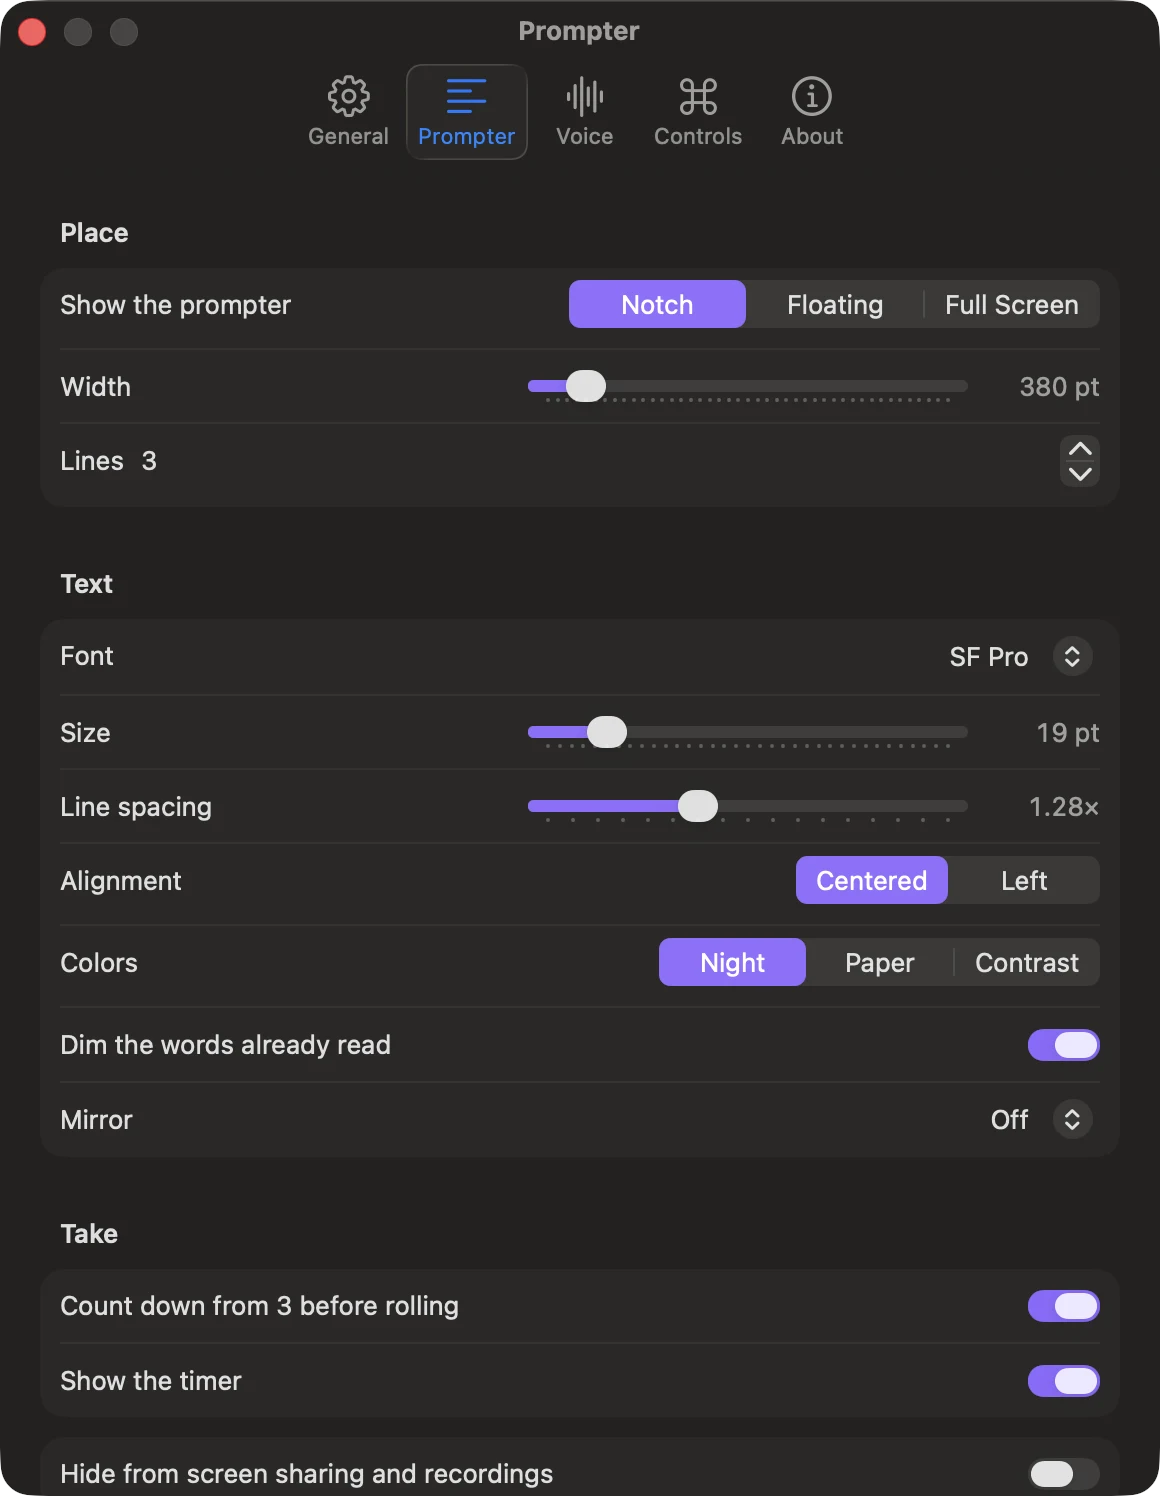
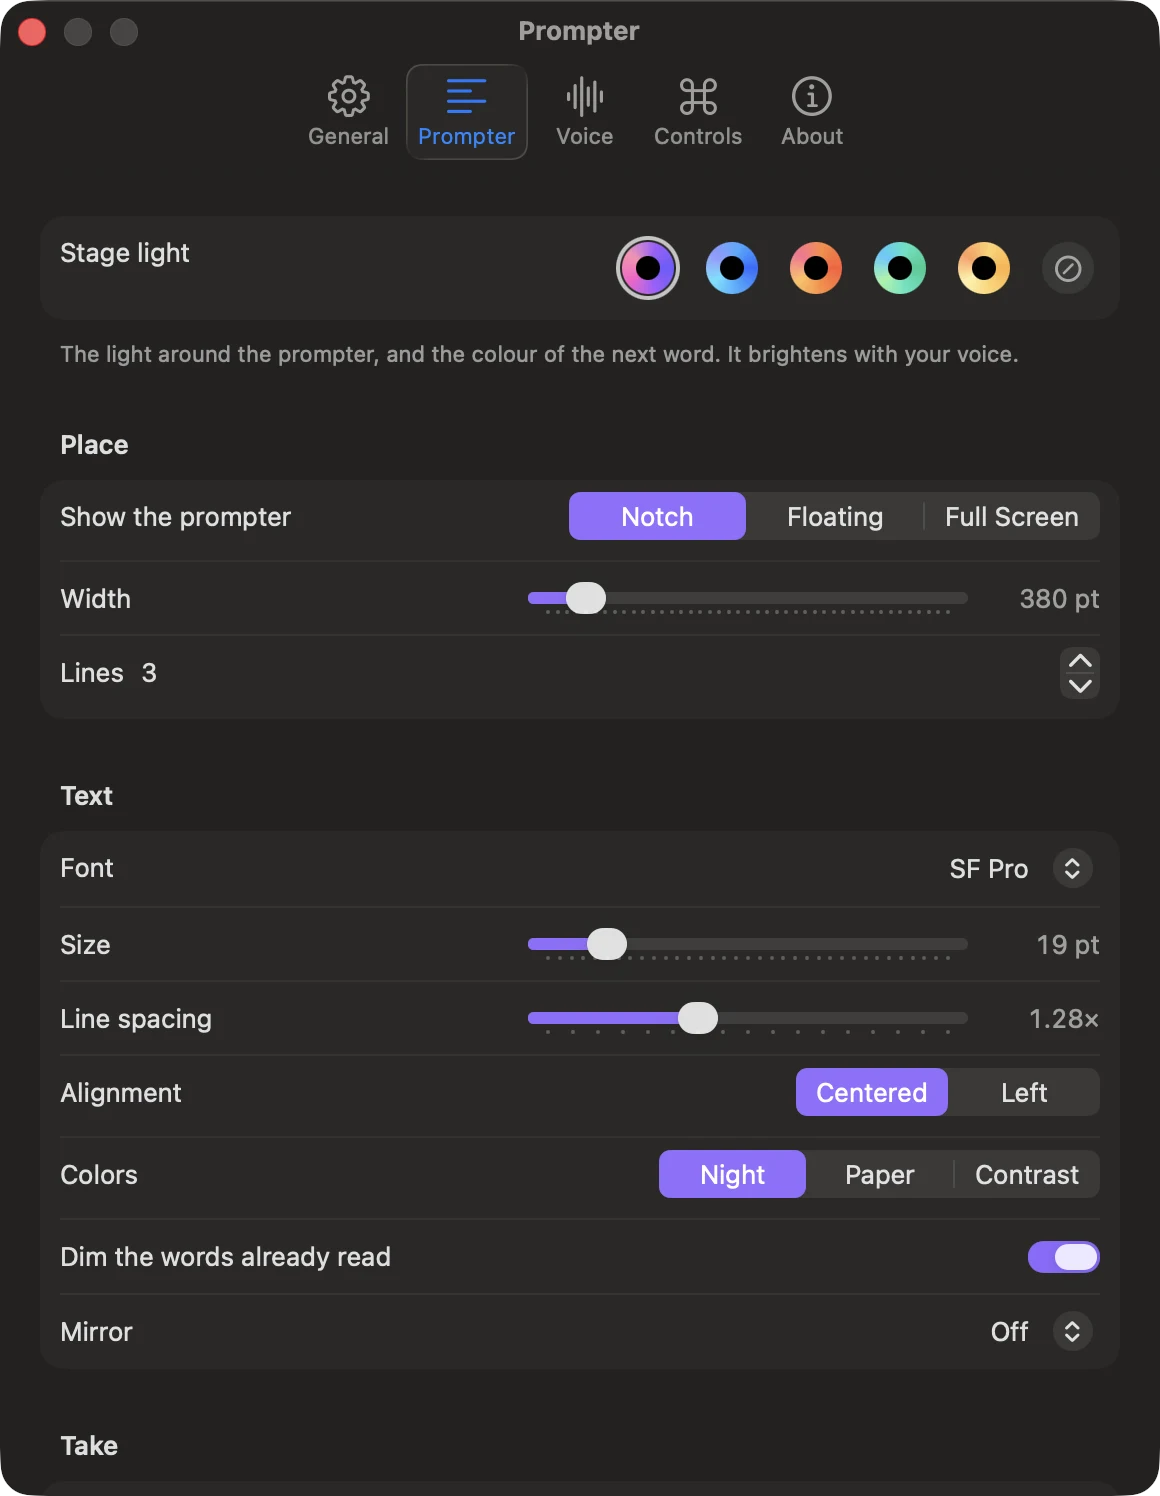
Website: pick your light (#6)
A section with the prompter in each of its five stage lights, real captures
taken by scripts/capture-site.sh, and the Settings capture with its swatches.

diff --git a/site/index.html b/site/index.html
@@ -125,7 +125,22 @@
       </div>
     </section>
 
-    <section class="section" id="control" aria-labelledby="control-title">
+    <section class="section" id="lights" aria-labelledby="lights-title">
+      <div class="wrap">
+        <p class="eyebrow">Stage light</p>
+        <h2 class="h2" id="lights-title">Pick your light.</h2>
+        <p class="lead">The prompter is ringed with a soft light that turns slowly and brightens as you speak. Violet by default; ocean, ember, mint or gold if you like; or none at all. The next word takes the same colour.</p>
+        <div class="lights">
+          <figure class="light"><div class="stage" style="--span:520;--rows:196" role="img" aria-label="The prompter ringed with violet light."><img class="shot" src="assets/notch/light-violet.webp" style="--w:484" alt=""></div><figcaption>Violet</figcaption></figure>
+          <figure class="light"><div class="stage" style="--span:520;--rows:196" role="img" aria-label="The prompter ringed with ocean blue light."><img class="shot" src="assets/notch/light-ocean.webp" style="--w:484" alt=""></div><figcaption>Ocean</figcaption></figure>
+          <figure class="light"><div class="stage" style="--span:520;--rows:196" role="img" aria-label="The prompter ringed with ember orange light."><img class="shot" src="assets/notch/light-ember.webp" style="--w:484" alt=""></div><figcaption>Ember</figcaption></figure>
+          <figure class="light"><div class="stage" style="--span:520;--rows:196" role="img" aria-label="The prompter ringed with mint green light."><img class="shot" src="assets/notch/light-mint.webp" style="--w:484" alt=""></div><figcaption>Mint</figcaption></figure>
+          <figure class="light"><div class="stage" style="--span:520;--rows:196" role="img" aria-label="The prompter ringed with gold light."><img class="shot" src="assets/notch/light-gold.webp" style="--w:484" alt=""></div><figcaption>Gold</figcaption></figure>
+        </div>
+      </div>
+    </section>
+
+    <section class="section section-2" id="control" aria-labelledby="control-title">
       <div class="wrap">
         <p class="eyebrow">Control</p>
         <h2 class="h2" id="control-title">Hands free. Eyes up.</h2>
@@ -156,7 +171,7 @@
       </div>
     </section>
 
-    <section class="section section-2" id="scripts" aria-labelledby="scripts-title">
+    <section class="section" id="scripts" aria-labelledby="scripts-title">
       <div class="wrap">
         <p class="eyebrow">Scripts</p>
         <h2 class="h2" id="scripts-title">Write it here, or bring it along.</h2>
@@ -177,7 +192,7 @@ This is <b>**the**</b> moment. <i>[pause]</i></pre>
       </div>
     </section>
 
-    <section class="section" id="coach" aria-labelledby="coach-title">
+    <section class="section section-2" id="coach" aria-labelledby="coach-title">
       <div class="wrap">
         <p class="eyebrow">Coach</p>
         <h2 class="h2" id="coach-title">Know how every take went.</h2>
@@ -194,11 +209,11 @@ This is <b>**the**</b> moment. <i>[pause]</i></pre>
       </div>
     </section>
 
-    <section class="section section-2" id="settings" aria-labelledby="settings-title">
+    <section class="section" id="settings" aria-labelledby="settings-title">
       <div class="wrap">
         <p class="eyebrow">Settings</p>
         <h2 class="h2" id="settings-title">Make it read the way you do.</h2>
-        <p class="lead">Font, size, spacing, colours, width and lines, mirror, countdown, the language to listen in, the pace. Every choice applies to the next take.</p>
+        <p class="lead">The stage light, font, size, spacing, colours, width and lines, mirror, countdown, the language to listen in, the pace. Every choice applies to the next take.</p>
         <div class="settings-shots">
           <figure><img src="assets/app/settings-prompter.webp" width="1160" height="1496" alt="Settings, the Prompter pane: place, width, lines, font, size and line spacing." loading="lazy"></figure>
           <figure><img src="assets/app/settings-voice.webp" width="1160" height="1176" alt="Settings, the Voice pane: the four ways to scroll, the language and the pace." loading="lazy"></figure>
@@ -207,7 +222,7 @@ This is <b>**the**</b> moment. <i>[pause]</i></pre>
       </div>
     </section>
 
-    <section class="section" id="compare" aria-labelledby="compare-title">
+    <section class="section section-2" id="compare" aria-labelledby="compare-title">
       <div class="wrap">
         <p class="eyebrow">Side by side</p>
         <h2 class="h2" id="compare-title">Everything the paid prompters do. Then some.</h2>
@@ -233,7 +248,7 @@ This is <b>**the**</b> moment. <i>[pause]</i></pre>
       </div>
     </section>
 
-    <section class="section section-2" id="privacy" aria-labelledby="privacy-title">
+    <section class="section" id="privacy" aria-labelledby="privacy-title">
       <div class="wrap">
         <p class="eyebrow">Privacy</p>
         <h2 class="h2" id="privacy-title">It hears you. It tells no one.</h2>
@@ -245,7 +260,7 @@ This is <b>**the**</b> moment. <i>[pause]</i></pre>
       </div>
     </section>
 
-    <section class="section" id="open-source" aria-labelledby="oss-title">
+    <section class="section section-2" id="open-source" aria-labelledby="oss-title">
       <div class="wrap">
         <p class="eyebrow">Open source</p>
         <h2 class="h2" id="oss-title">Every line is on GitHub.</h2>
@@ -270,7 +285,7 @@ This is <b>**the**</b> moment. <i>[pause]</i></pre>
       </div>
     </section>
 
-    <section class="section section-2" id="faq" aria-labelledby="faq-title">
+    <section class="section" id="faq" aria-labelledby="faq-title">
       <div class="wrap-narrow">
         <h2 class="h2" id="faq-title">Questions</h2>
         <div class="faq">

diff --git a/site/css/souffleur.css b/site/css/souffleur.css
@@ -214,6 +214,19 @@
 .place p { margin-top: 6px; color: var(--text-2); font-size: 17px; }
 @media (max-width: 834px) { .places { grid-template-columns: 1fr; max-width: 560px; margin-inline: auto; } }
 
+/* ---------- Stage light ---------- */
+
+.lights {
+  display: grid;
+  grid-template-columns: repeat(5, 1fr);
+  gap: 16px;
+  margin-top: 56px;
+}
+.light { overflow: hidden; border-radius: 16px; background: var(--card); box-shadow: 0 0 0 1px var(--edge); }
+.light figcaption { padding: 10px 14px 12px; color: var(--text); font-size: 15px; font-weight: 600; }
+@media (max-width: 1068px) { .lights { grid-template-columns: repeat(3, 1fr); } }
+@media (max-width: 560px) { .lights { grid-template-columns: repeat(2, 1fr); } }
+
 /* ---------- Control ---------- */
 
 .control {
